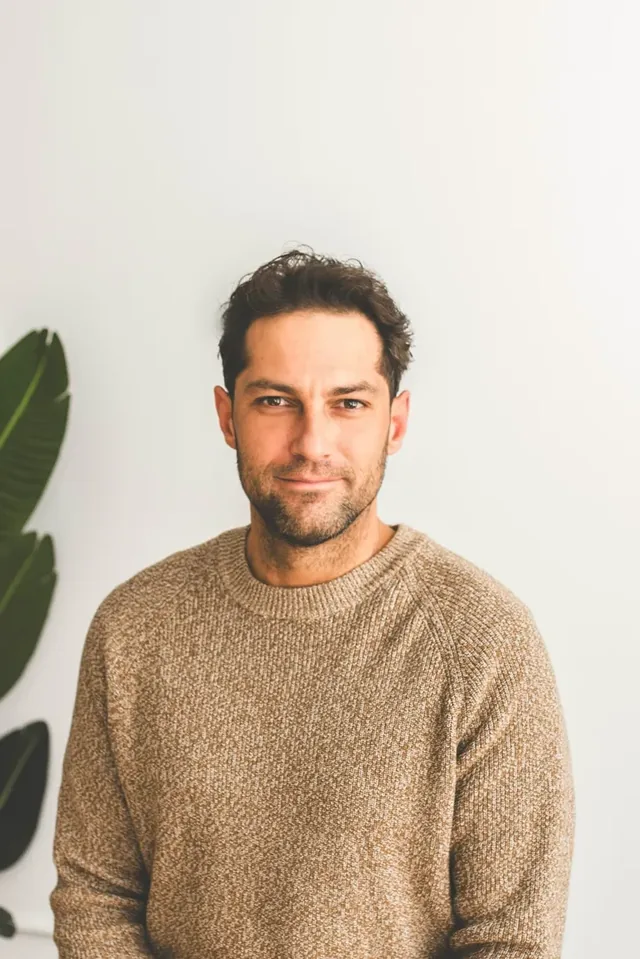
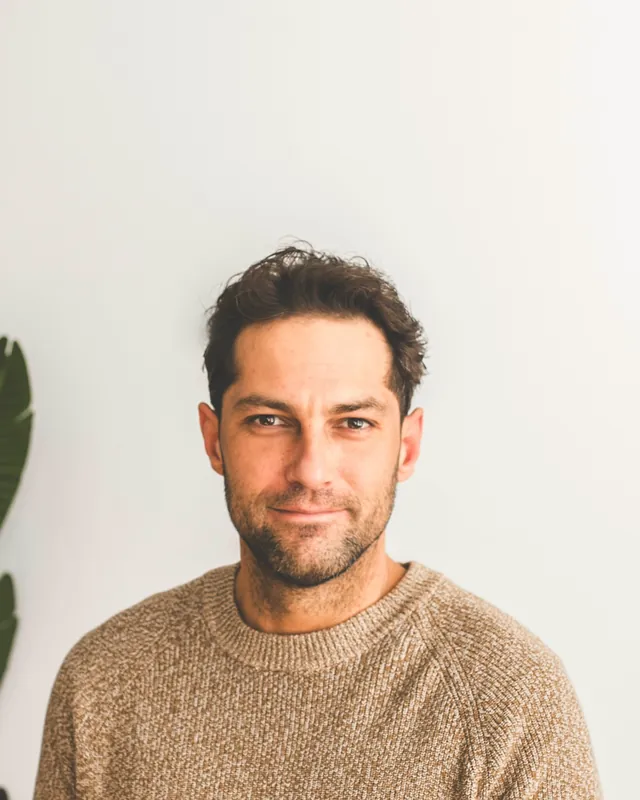
Prairie Hearing: new headshots, Paige + Mike photos and clinic photos
Home and About use Paige's and Mike's new headshots and the new photos of
them together; Home's dark band shows the waiting room; About gains an
"Inside the clinic" gallery; Contact shows the storefront sign.

diff --git a/the-vault/prairie/about.html b/the-vault/prairie/about.html
@@ -100,7 +100,7 @@
           <a class="btn btn-ghost btn-lg" href="#team">Meet the team</a>
         </div>
       </div>
-      <div class="photo wide"><img src="assets/img/paige-mike-bench.webp" width="860" height="573" alt="Paige and Mike outside Prairie Hearing Westwood" srcset="assets/img/paige-mike-bench-480.webp 480w, assets/img/paige-mike-bench-760.webp 760w, assets/img/paige-mike-bench.webp 860w" sizes="(max-width:760px) 92vw, (max-width:1040px) 46vw, 700px" fetchpriority="high"></div>
+      <div class="photo wide"><img src="assets/img/paige-mike-sargent.webp" width="1400" height="933" alt="Paige and Mike sitting outside together with a dog at their feet" srcset="assets/img/paige-mike-sargent-480.webp 480w, assets/img/paige-mike-sargent-760.webp 760w, assets/img/paige-mike-sargent-1100.webp 1100w, assets/img/paige-mike-sargent.webp 1400w" sizes="(max-width:760px) 92vw, (max-width:1040px) 46vw, 700px" fetchpriority="high"></div>
     </div>
   </section>
 
@@ -113,7 +113,7 @@
       </div>
 
       <article class="person">
-        <div class="person-photo"><img src="assets/img/paige-headshot.webp" width="860" height="1268" alt="Paige McCombs, founder of Prairie Hearing Westwood" srcset="assets/img/paige-headshot-420.webp 420w, assets/img/paige-headshot-640.webp 640w, assets/img/paige-headshot.webp 860w" sizes="(max-width:1040px) 60vw, 340px" loading="lazy" decoding="async"></div>
+        <div class="person-photo"><img src="assets/img/paige-headshot.webp" width="860" height="1075" alt="Paige McCombs, founder of Prairie Hearing Westwood" srcset="assets/img/paige-headshot-420.webp 420w, assets/img/paige-headshot-640.webp 640w, assets/img/paige-headshot.webp 860w" sizes="(max-width:1040px) 60vw, 340px" loading="lazy" decoding="async"></div>
         <div>
           <h2>Paige McCombs</h2>
           <p class="role">Founder, BC-HIS (Board Certified Hearing Instrument Practitioner)</p>
@@ -126,7 +126,7 @@
       </article>
 
       <article class="person">
-        <div class="person-photo"><img src="assets/img/mike-headshot.webp" width="720" height="1079" alt="Mike Kuchirka at Prairie Hearing Westwood" srcset="assets/img/mike-headshot-420.webp 420w, assets/img/mike-headshot-640.webp 640w, assets/img/mike-headshot.webp 720w" sizes="(max-width:1040px) 60vw, 340px" loading="lazy" decoding="async"></div>
+        <div class="person-photo"><img src="assets/img/mike-headshot.webp" width="860" height="1075" alt="Mike Kuchirka at Prairie Hearing Westwood" srcset="assets/img/mike-headshot-420.webp 420w, assets/img/mike-headshot-640.webp 640w, assets/img/mike-headshot.webp 860w" sizes="(max-width:1040px) 60vw, 340px" loading="lazy" decoding="async"></div>
         <div>
           <h2>Mike Kuchirka</h2>
           <p class="role">Clinic Operations</p>
@@ -151,6 +151,20 @@
         <article class="value"><div class="ic"><svg viewBox="0 0 24 24" fill="none" stroke="currentColor" stroke-width="1.9" stroke-linecap="round" stroke-linejoin="round" aria-hidden="true"><path d="M21 12a8 8 0 0 1-8 8H7l-4 3v-6a8 8 0 0 1 8-8h2a8 8 0 0 1 8 3Z"/></svg></div><h3>Honest advice</h3><p>We only recommend what genuinely helps. If you do not need hearing aids, we will happily tell you so.</p></article>
         <article class="value"><div class="ic"><svg viewBox="0 0 24 24" fill="none" stroke="currentColor" stroke-width="1.9" stroke-linecap="round" stroke-linejoin="round" aria-hidden="true"><path d="M3 21V10l9-7 9 7v11"/><path d="M9 21v-6h6v6"/></svg></div><h3>Properly local</h3><p>An independent, neighbourhood clinic right here in Westwood. Your neighbours are our clients, and that matters to us.</p></article>
         <article class="value"><div class="ic"><svg viewBox="0 0 24 24" fill="none" stroke="currentColor" stroke-width="1.9" stroke-linecap="round" stroke-linejoin="round" aria-hidden="true"><circle cx="12" cy="12" r="9"/><path d="M12 7v5l3 2"/></svg></div><h3>Time to listen</h3><p>Appointments are unhurried. We take the time to understand your hearing and explain things clearly.</p></article>
+      </div>
+    </div>
+  </section>
+
+  <section class="band band-alt">
+    <div class="wrap">
+      <div class="band-head">
+        <p class="eyebrow">Come on in</p>
+        <h2>Inside the clinic</h2>
+      </div>
+      <div class="gallery">
+        <figure><img src="assets/img/reception.webp" width="800" height="1000" alt="The reception desk, with the Prairie Hearing Westwood sign on the wall behind it" srcset="assets/img/reception-480.webp 480w, assets/img/reception.webp 800w" sizes="(max-width:1040px) 31vw, 380px" loading="lazy" decoding="async"><figcaption>Reception</figcaption></figure>
+        <figure><img src="assets/img/waiting-room.webp" width="800" height="1000" alt="The waiting room, with black armchairs, a round table and a large window" srcset="assets/img/waiting-room-480.webp 480w, assets/img/waiting-room.webp 800w" sizes="(max-width:1040px) 31vw, 380px" loading="lazy" decoding="async"><figcaption>Waiting room</figcaption></figure>
+        <figure><img src="assets/img/testing-room.webp" width="800" height="1000" alt="The testing room, with the sound booth on the left and the consultation desk" srcset="assets/img/testing-room-480.webp 480w, assets/img/testing-room.webp 800w" sizes="(max-width:1040px) 31vw, 380px" loading="lazy" decoding="async"><figcaption>Testing room</figcaption></figure>
       </div>
     </div>
   </section>

diff --git a/the-vault/prairie/index.html b/the-vault/prairie/index.html
@@ -178,7 +178,7 @@
   <section class="band">
     <div class="wrap split">
       <div class="photo-stack">
-        <div class="photo wide"><img src="assets/img/paige-mike-bench.webp" width="860" height="573" alt="Paige and Mike, the team behind Prairie Hearing Westwood" srcset="assets/img/paige-mike-bench-480.webp 480w, assets/img/paige-mike-bench-760.webp 760w, assets/img/paige-mike-bench.webp 860w" sizes="(max-width:760px) 92vw, (max-width:1040px) 46vw, 700px" loading="lazy" decoding="async"></div>
+        <div class="photo tall"><img src="assets/img/paige-mike-together.webp" width="1000" height="1250" alt="Paige McCombs and Mike Kuchirka, the team behind Prairie Hearing Westwood" srcset="assets/img/paige-mike-together-480.webp 480w, assets/img/paige-mike-together-760.webp 760w, assets/img/paige-mike-together.webp 1000w" sizes="(max-width:760px) 92vw, (max-width:1040px) 46vw, 700px" loading="lazy" decoding="async"></div>
         <div class="badge"><img src="assets/img/logo-mark.png" width="233" height="320" alt="" loading="lazy" decoding="async"><div><b>Paige McCombs, BC-HIS</b><span>Founder, Prairie Hearing Westwood</span></div></div>
       </div>
       <div>
@@ -202,7 +202,7 @@
         <div style="margin-top:28px"><ul class="checks"><li><svg viewBox="0 0 24 24" fill="none" stroke="currentColor" stroke-width="2" aria-hidden="true"><circle cx="12" cy="12" r="10" opacity=".3"/><path d="m8 12 3 3 5-6" stroke-linecap="round" stroke-linejoin="round"/></svg><span>One familiar face</span></li><li><svg viewBox="0 0 24 24" fill="none" stroke="currentColor" stroke-width="2" aria-hidden="true"><circle cx="12" cy="12" r="10" opacity=".3"/><path d="m8 12 3 3 5-6" stroke-linecap="round" stroke-linejoin="round"/></svg><span>Honest advice</span></li><li><svg viewBox="0 0 24 24" fill="none" stroke="currentColor" stroke-width="2" aria-hidden="true"><circle cx="12" cy="12" r="10" opacity=".3"/><path d="m8 12 3 3 5-6" stroke-linecap="round" stroke-linejoin="round"/></svg><span>Properly local</span></li><li><svg viewBox="0 0 24 24" fill="none" stroke="currentColor" stroke-width="2" aria-hidden="true"><circle cx="12" cy="12" r="10" opacity=".3"/><path d="m8 12 3 3 5-6" stroke-linecap="round" stroke-linejoin="round"/></svg><span>Time to listen</span></li></ul></div>
         <div class="btn-row"><a class="btn btn-light" href="about.html">Meet the clinic <svg class="arw" width="18" height="18" viewBox="0 0 24 24" fill="none" stroke="currentColor" stroke-width="2.4" stroke-linecap="round" stroke-linejoin="round" aria-hidden="true"><path d="M5 12h14M13 6l6 6-6 6"/></svg></a></div>
       </div>
-      <div class="photo tall"><img src="assets/img/hearing-aid-fitting.webp" width="1400" height="739" alt="A hearing aid being fitted behind the ear of a smiling older woman" srcset="assets/img/hearing-aid-fitting-480.webp 480w, assets/img/hearing-aid-fitting-760.webp 760w, assets/img/hearing-aid-fitting-1100.webp 1100w, assets/img/hearing-aid-fitting-1400.webp 1400w" sizes="(max-width:760px) 92vw, (max-width:1040px) 46vw, 700px" loading="lazy" decoding="async" style="object-position:30% 50%"></div>
+      <div class="photo tall"><img src="assets/img/waiting-room-dog.webp" width="1000" height="1250" alt="The waiting room at Prairie Hearing Westwood, with a friendly dog sitting on the rug" srcset="assets/img/waiting-room-dog-480.webp 480w, assets/img/waiting-room-dog-760.webp 760w, assets/img/waiting-room-dog.webp 1000w" sizes="(max-width:760px) 92vw, (max-width:1040px) 46vw, 700px" loading="lazy" decoding="async"></div>
     </div>
   </section>
 

diff --git a/the-vault/prairie/contact.html b/the-vault/prairie/contact.html
@@ -114,7 +114,7 @@
           <li><h3>Opening hours</h3><ul class="hours"><li data-day="1"><b>Monday</b><span>8:30 AM – 4:30 PM</span></li><li data-day="2"><b>Tuesday</b><span>8:30 AM – 4:30 PM</span></li><li data-day="3"><b>Wednesday</b><span>8:30 AM – 4:30 PM</span></li><li data-day="4"><b>Thursday</b><span>8:30 AM – 4:30 PM</span></li><li data-day="5"><b>Friday</b><span>8:30 AM – 4:30 PM</span></li><li data-day="6"><b>Saturday</b><span>Closed</span></li><li data-day="0"><b>Sunday</b><span>Closed</span></li></ul></li>
         </ul>
         <figure class="clinic-photo">
-          <img src="assets/img/clinic-reception.webp" width="1500" height="1160" alt="The reception desk at Prairie Hearing Westwood, with the clinic name on the wall behind it" srcset="assets/img/clinic-reception-480.webp 480w, assets/img/clinic-reception-760.webp 760w, assets/img/clinic-reception-1100.webp 1100w, assets/img/clinic-reception.webp 1500w" sizes="(max-width:1040px) 92vw, 520px" loading="lazy" decoding="async">
+          <img src="assets/img/storefront.webp" width="1200" height="800" alt="The Prairie Hearing sign above the clinic&#x27;s glass front doors on Portage Avenue" srcset="assets/img/storefront-480.webp 480w, assets/img/storefront-760.webp 760w, assets/img/storefront.webp 1200w" sizes="(max-width:1040px) 92vw, 520px" loading="lazy" decoding="async">
         </figure>
       </div>
       <div class="book-card" id="book">

diff --git a/the-vault/prairie/blog/custom-hearing-protection-explained.html b/the-vault/prairie/blog/custom-hearing-protection-explained.html
@@ -94,7 +94,7 @@
       <ol class="crumbs" aria-label="Breadcrumb"><li><a href="../index.html">Home</a></li><li><a href="../blog.html">Blog</a></li><li aria-current="page">Hearing protection</li></ol>
       <span class="cat">Hearing protection</span>
       <h1 style="margin-top:18px">Why Custom Earplugs Beat the Foam Ones in Your Drawer</h1>
-      <div class="byline"><img src="../assets/img/paige-headshot.webp" width="860" height="1268" alt="" srcset="../assets/img/paige-headshot-420.webp 420w, ../assets/img/paige-headshot-640.webp 640w, ../assets/img/paige-headshot.webp 860w" sizes="54px" loading="lazy" decoding="async"><span><b>By Paige McCombs</b><time datetime="2026-06-05">June 5, 2026</time></span></div>
+      <div class="byline"><img src="../assets/img/paige-headshot.webp" width="860" height="1075" alt="" srcset="../assets/img/paige-headshot-420.webp 420w, ../assets/img/paige-headshot-640.webp 640w, ../assets/img/paige-headshot.webp 860w" sizes="54px" loading="lazy" decoding="async"><span><b>By Paige McCombs</b><time datetime="2026-06-05">June 5, 2026</time></span></div>
     </div>
   </section>
 

diff --git a/the-vault/prairie/blog/getting-used-to-new-hearing-aids.html b/the-vault/prairie/blog/getting-used-to-new-hearing-aids.html
@@ -94,7 +94,7 @@
       <ol class="crumbs" aria-label="Breadcrumb"><li><a href="../index.html">Home</a></li><li><a href="../blog.html">Blog</a></li><li aria-current="page">Hearing aids</li></ol>
       <span class="cat">Hearing aids</span>
       <h1 style="margin-top:18px">Getting Used to New Hearing Aids: Your First Two Weeks</h1>
-      <div class="byline"><img src="../assets/img/paige-headshot.webp" width="860" height="1268" alt="" srcset="../assets/img/paige-headshot-420.webp 420w, ../assets/img/paige-headshot-640.webp 640w, ../assets/img/paige-headshot.webp 860w" sizes="54px" loading="lazy" decoding="async"><span><b>By Paige McCombs</b><time datetime="2026-05-18">May 18, 2026</time></span></div>
+      <div class="byline"><img src="../assets/img/paige-headshot.webp" width="860" height="1075" alt="" srcset="../assets/img/paige-headshot-420.webp 420w, ../assets/img/paige-headshot-640.webp 640w, ../assets/img/paige-headshot.webp 860w" sizes="54px" loading="lazy" decoding="async"><span><b>By Paige McCombs</b><time datetime="2026-05-18">May 18, 2026</time></span></div>
     </div>
   </section>
 

diff --git a/the-vault/prairie/blog/signs-you-might-need-a-hearing-test.html b/the-vault/prairie/blog/signs-you-might-need-a-hearing-test.html
@@ -94,7 +94,7 @@
       <ol class="crumbs" aria-label="Breadcrumb"><li><a href="../index.html">Home</a></li><li><a href="../blog.html">Blog</a></li><li aria-current="page">Hearing health</li></ol>
       <span class="cat">Hearing health</span>
       <h1 style="margin-top:18px">Five Quiet Signs It Might Be Time for a Hearing Test</h1>
-      <div class="byline"><img src="../assets/img/paige-headshot.webp" width="860" height="1268" alt="" srcset="../assets/img/paige-headshot-420.webp 420w, ../assets/img/paige-headshot-640.webp 640w, ../assets/img/paige-headshot.webp 860w" sizes="54px" loading="lazy" decoding="async"><span><b>By Paige McCombs</b><time datetime="2026-05-04">May 4, 2026</time></span></div>
+      <div class="byline"><img src="../assets/img/paige-headshot.webp" width="860" height="1075" alt="" srcset="../assets/img/paige-headshot-420.webp 420w, ../assets/img/paige-headshot-640.webp 640w, ../assets/img/paige-headshot.webp 860w" sizes="54px" loading="lazy" decoding="async"><span><b>By Paige McCombs</b><time datetime="2026-05-04">May 4, 2026</time></span></div>
     </div>
   </section>
 

diff --git a/the-vault/prairie/blog/caring-for-your-hearing-aids.html b/the-vault/prairie/blog/caring-for-your-hearing-aids.html
@@ -94,7 +94,7 @@
       <ol class="crumbs" aria-label="Breadcrumb"><li><a href="../index.html">Home</a></li><li><a href="../blog.html">Blog</a></li><li aria-current="page">Hearing aids</li></ol>
       <span class="cat">Hearing aids</span>
       <h1 style="margin-top:18px">A Simple Routine for Looking After Your Hearing Aids</h1>
-      <div class="byline"><img src="../assets/img/paige-headshot.webp" width="860" height="1268" alt="" srcset="../assets/img/paige-headshot-420.webp 420w, ../assets/img/paige-headshot-640.webp 640w, ../assets/img/paige-headshot.webp 860w" sizes="54px" loading="lazy" decoding="async"><span><b>By Paige McCombs</b><time datetime="2026-05-28">May 28, 2026</time></span></div>
+      <div class="byline"><img src="../assets/img/paige-headshot.webp" width="860" height="1075" alt="" srcset="../assets/img/paige-headshot-420.webp 420w, ../assets/img/paige-headshot-640.webp 640w, ../assets/img/paige-headshot.webp 860w" sizes="54px" loading="lazy" decoding="async"><span><b>By Paige McCombs</b><time datetime="2026-05-28">May 28, 2026</time></span></div>
     </div>
   </section>
 

diff --git a/the-vault/prairie/assets/css/site.css b/the-vault/prairie/assets/css/site.css
@@ -354,6 +354,10 @@ button,a{-webkit-tap-highlight-color:rgba(92,110,74,.18)}
 .photo.tall img{aspect-ratio:4/5}
 .photo.wide img{aspect-ratio:3/2}
 .photo-stack{position:relative}
+.gallery{display:grid;grid-template-columns:repeat(3,minmax(0,1fr));gap:24px}
+.gallery figure{margin:0}
+.gallery img{display:block;width:100%;aspect-ratio:4/5;object-fit:cover;border-radius:var(--r-lg);box-shadow:var(--sh-2)}
+.gallery figcaption{margin-top:12px;font-family:var(--display);font-weight:600;font-size:1.1rem;text-align:center}
 .photo-stack .badge{
   position:absolute;right:-14px;bottom:-24px;background:var(--paper);border-radius:var(--r);
   padding:16px 20px;box-shadow:var(--sh-2);display:flex;align-items:center;gap:14px;max-width:300px;
@@ -722,6 +726,8 @@ main p a:not(.btn):hover, .info-list a:hover, .map-note a:hover, .crumbs a:hover
 }
 
 @media (max-width:760px){
+  .gallery{gap:12px}
+  .gallery figcaption{font-size:.94rem;margin-top:8px}
   body{font-size:1.1rem}
   .wrap{padding:0 20px}
   .hero-media{width:auto;max-width:300px;justify-self:center;margin:8px auto 22px}
